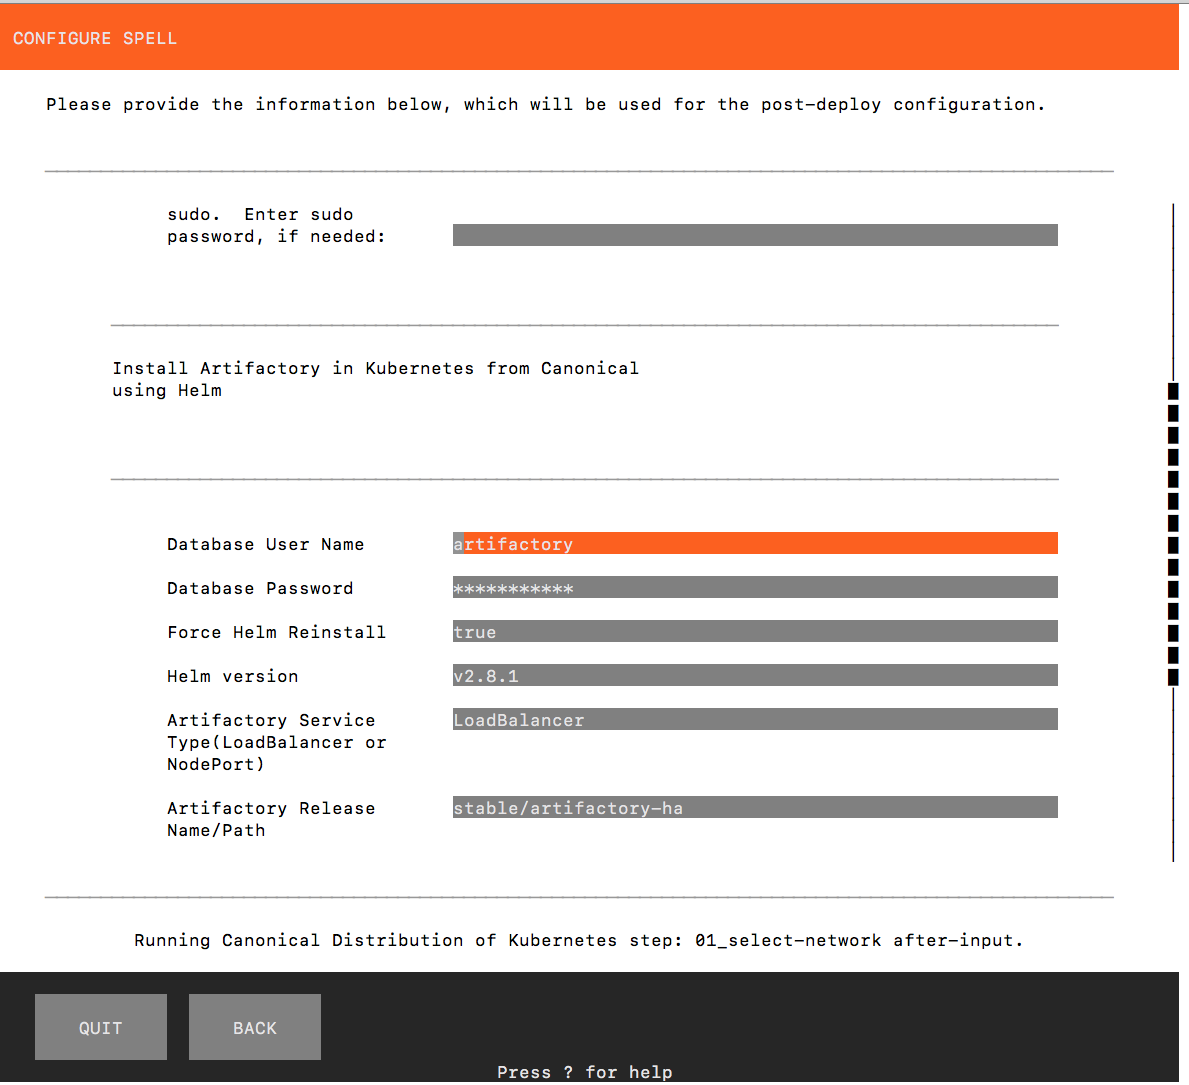
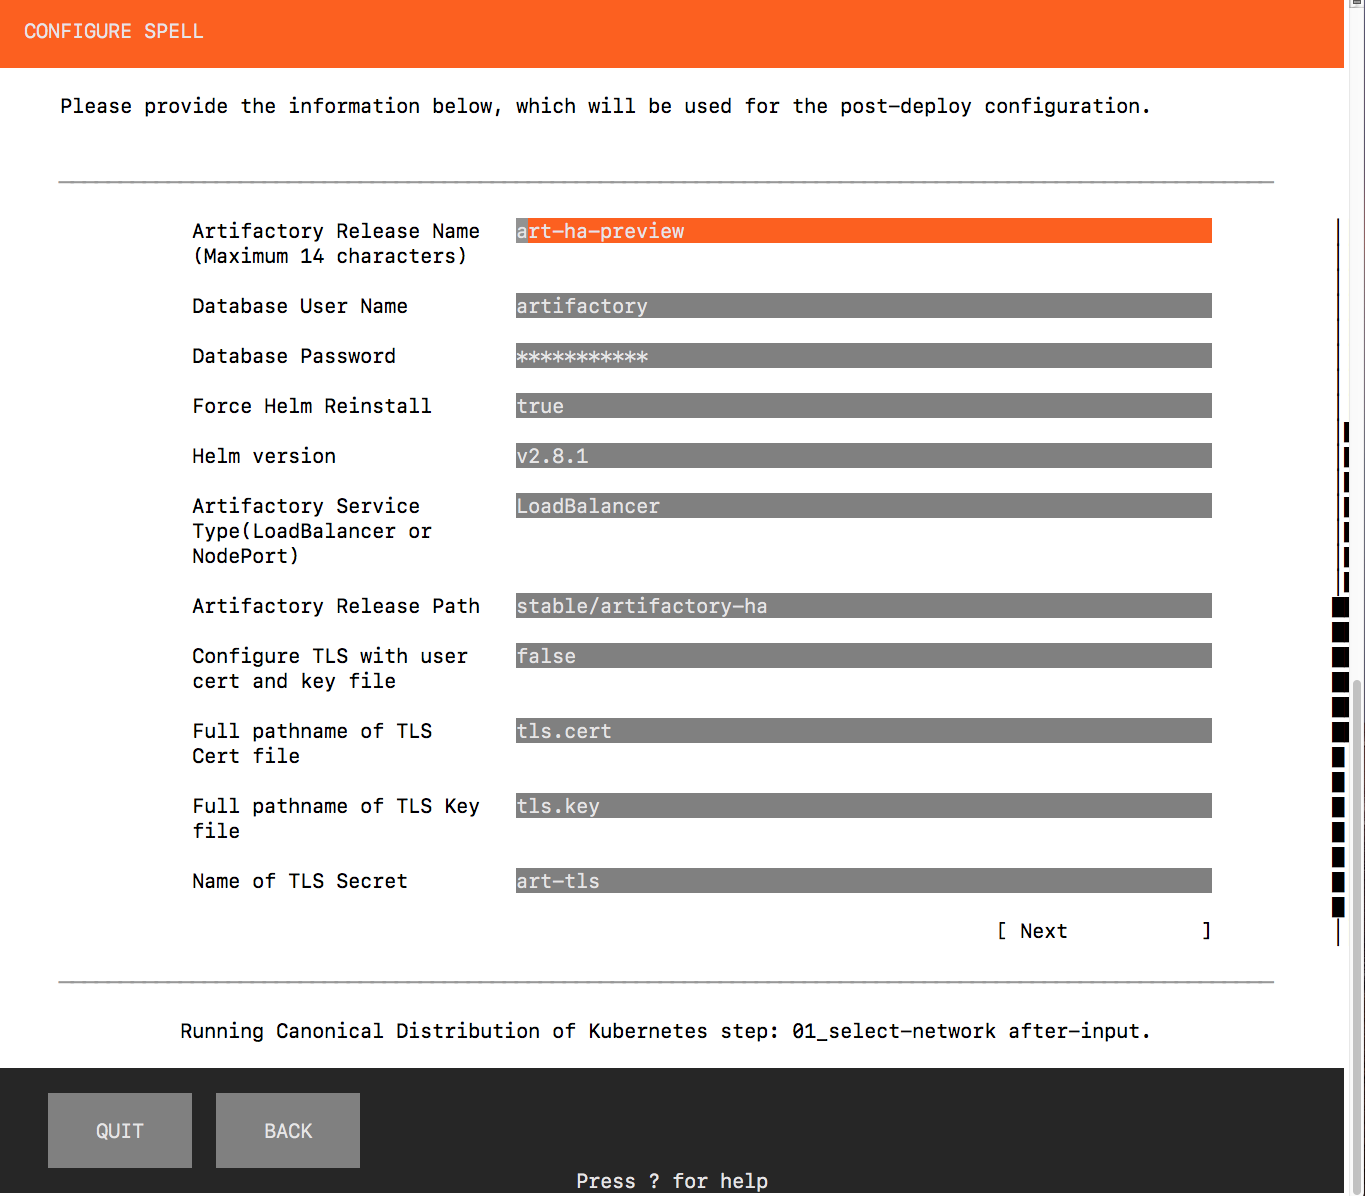
Remove unused ingress options and other cleanups.

diff --git a/canonical-kubernetes/addons/jfrog/README.md b/canonical-kubernetes/addons/jfrog/README.md
@@ -30,16 +30,13 @@ Select this Addon to install Artifactory Enterprise on a Canonical Distribution 
 
 ![ArtifactorySelectionsP1](images/selectionp1.png)
 
-![ArtifactorySelectionP2](images/selectionp2.png)
-
-
 
 3. After you see the "Your big software is deployed", you can see the successful installation of Artifactory message. If you do not, scroll down and follow the instruction to obtain the Artifactory URL.  This is how the screen looks like:
 
 ![PostDeployScreen](images/postdeploy.png)
 
 
-The main command to use here is "kubectl get svc -o wide". On AWS, the external hostname of the LoadBalancer for nginx is the one that needs to be used as the artifactory URL. Opening up the Artifactory URL will them ask you provide the Licenses and the Artifactory documentation can then be followed to configure Artifactory.
+The main command to use here is "kubectl get svc -o wide". On AWS, the external hostname of the LoadBalancer for nginx is the one that needs to be used as the artifactory URL. Opening up the Artifactory URL will prompt you to input the Licenses and the Artifactory documentation can then be followed to configure Artifactory.
 
 For detailed explanation of how to find the URL of artifactory, please review the documentation available on official Kubernetes charts maintained on Github at https://github.com/kubernetes/charts/tree/master/stable/artifactory-ha
 
@@ -47,12 +44,13 @@ For detailed explanation of how to find the URL of artifactory, please review th
 
 If the Basic installation is not suitable, then instead of accepting the defaults, the selections can be changed. Here is a brief description of the choices provided.
 
-1. Database User: Artifactory by default creates a PostgresQL database user with the id artifactory. You can change the database user here.
-2. Database password: You change the default password for the database here.
-3. Force Reinstall Helm: You can use this to reinstall a new version
-4. Helm version: If you would like a specific version due to known issues with the latest, you can specify it here.
-5. Artifactory Service Type: Recommended to use LoadBalancer. NodePort is preferred if you already have a LoadBalancer.
-7. Artifactory release name and path. You can specify your own name and release path here. For examnple, --name myartifactory stable/artifactory.
+1. Artifactory release name: Use a name for artifactory not exceeding 14 characters. For example, my-art-ha
+2. Database User: Artifactory by default creates a PostgresQL database user with the id artifactory. You can change the database user here.
+3. Database password: You change the default password for the database here.
+4. Force Reinstall Helm: You can use this to reinstall a new version of Helm.
+5. Helm version: If you would like a specific version due to known issues with the latest, you can specify it here.
+6. Artifactory Service Type: Recommended to use LoadBalancer. NodePort is preferred if you already have a LoadBalancer.
+7. Artifactory release path: You can specify release path here. For example, stable/artifactory-ha
 8. Configure TLS can be set to true and in this case, provide the TLS cert and TLS key file location and the secret file name you would like to use.
 
 
@@ -106,9 +104,9 @@ Please note that to see the post install message, on conjure-up output you might
 This might be changed in future.
 
 
-#### Troubleshooting
+### Troubleshooting
 
-Any debug messages printed via 'echo' in the addon scripts show up on the conjure-up screen at the lower status bar, but they get replaced by the next one. If these need to be reviewed post install, then navigate to ~/.cache/conjure-up directory and locate the addon script directory and see files with .out and .err extensions. They include all the standard output and standard error messages of the scripts. The output of helm installer for JFrog artifactory is redirected in the adodn script to a log file jfrog_installer.log and this along the with other .out and .err can be used to debug any issues.
+Any debug messages printed via 'echo' in the addon scripts show up on the conjure-up screen at the lower status bar, but they get replaced by the next one. If these need to be reviewed post install, then navigate to ~/.cache/conjure-up directory and locate the addon script directory and see files with .out and .err extensions. They include all the standard output and standard error messages of the scripts. The output of helm installer for JFrog artifactory is redirected in the addon script to a log file jfrog_installer.log and this along the with other .out and .err can be used to debug any issues.
 
 ## References
 
